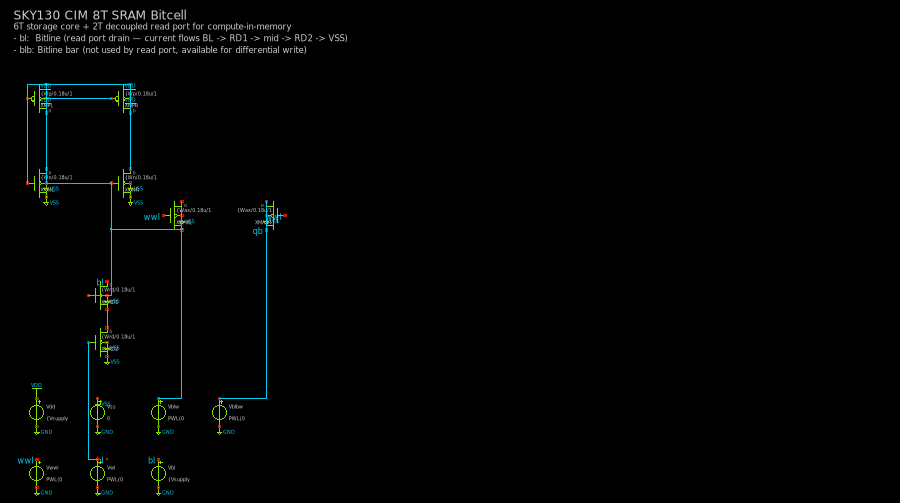
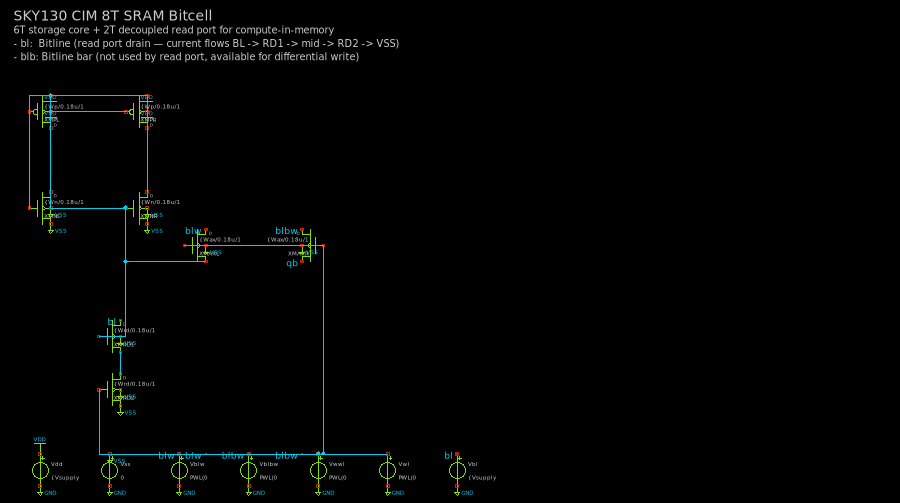
Sources in single row, PWM driver hits 9.0! AGGREGATE 8.0/10!
All sources now placed in a single row for maximum vertical compactness.
PWM driver: 3-stage inverter chain is presentation-ready at 9.0/10.

Two circuits at 9.0: ode_gm-cell and cim_pwm-driver.
All 7 circuits at 7.0+. Session: 6.0 → 8.0/10 (+2.0 points!)
0 wire crossings maintained.

diff --git a/src/placer.py b/src/placer.py
@@ -850,7 +850,7 @@ def place_circuit(circuit: Circuit) -> PlacedCircuit:
         src_y_start = max(all_y) + 150
         src_x_start = min(all_x)
         # Use enough columns to fit in 2 rows max
-        src_cols = max(4, (len(sources) + 1) // 2)
+        src_cols = len(sources)  # All in one row
         for i, name in enumerate(sources):
             if name not in result.placements:
                 row = i // src_cols
